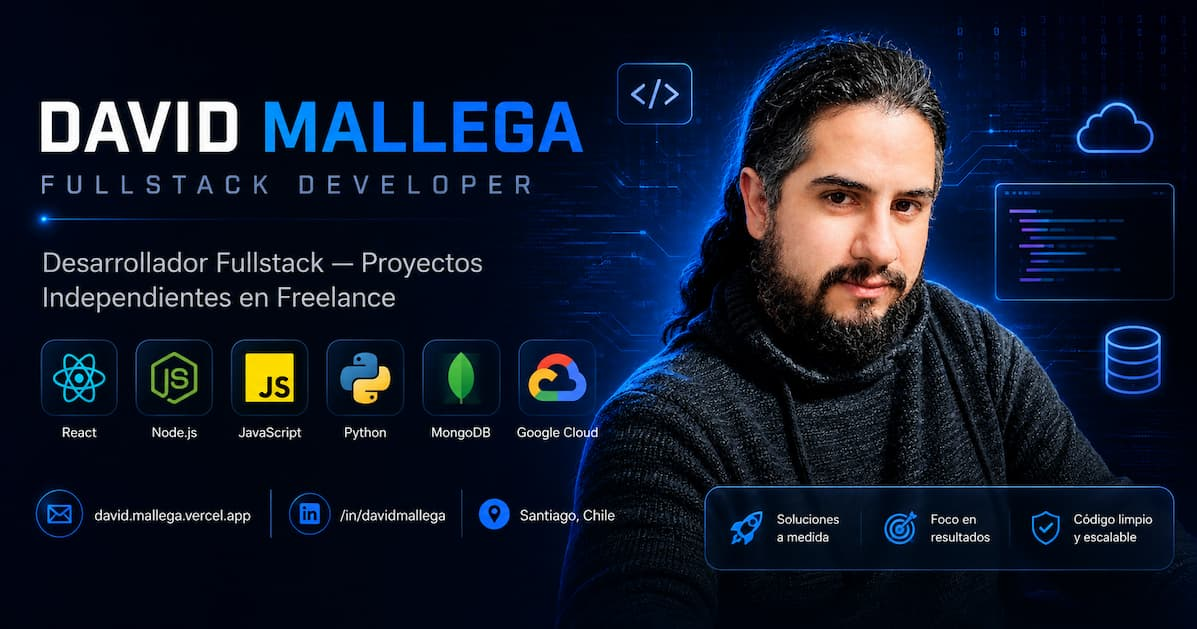
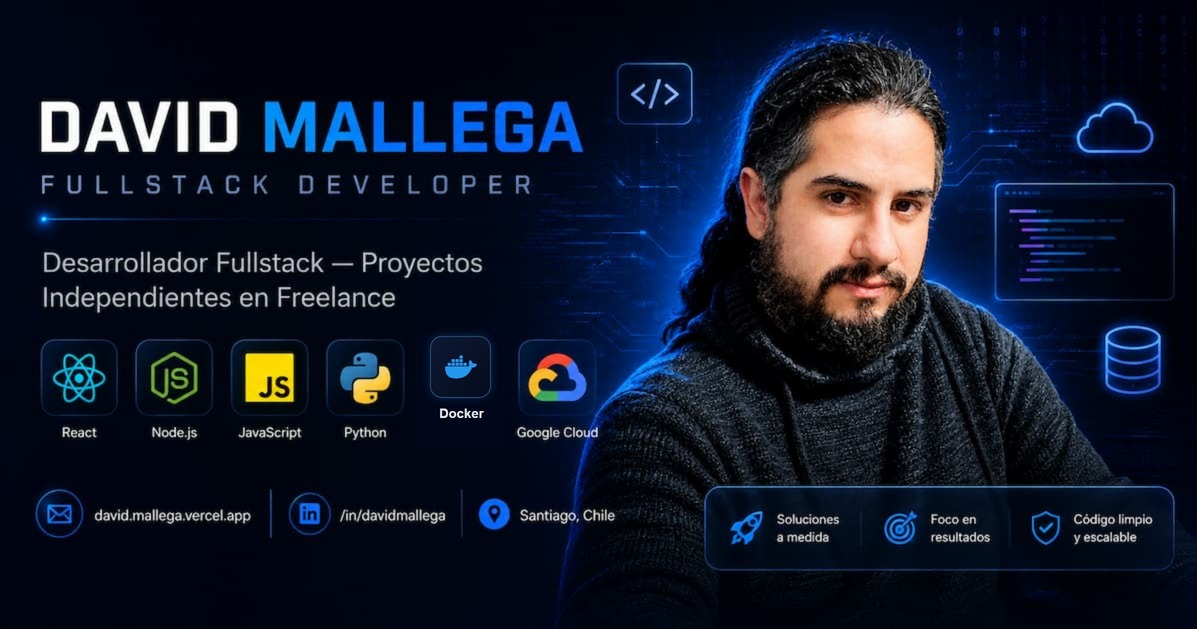
feat: SEO/discoverability pass + custom 404 + perf fix
- Add 404 page (styled, matches site aesthetic) + wildcard route
- Add vercel.json SPA rewrite so direct/refreshed route navigation works
- Add canonical tag, robots.txt, sitemap.xml, llms.txt
- Replace MongoDB icon with Docker in og-image (matches actual stack)
- Compress avatar.jpeg: 2.89MB -> 47KB (was serving 1254x1254 for a
  192px circle), no visible quality loss at display size

diff --git a/src/components/NotFound.jsx b/src/components/NotFound.jsx
@@ -1,0 +1,43 @@
+import { useLocation, useNavigate } from 'react-router-dom'
+import { useLang } from '../context/LanguageContext'
+
+export default function NotFound() {
+  const { pathname } = useLocation()
+  const navigate = useNavigate()
+  const { lang } = useLang()
+
+  return (
+    <section className="min-h-[70vh] flex items-center justify-center px-8 py-24">
+      <div className="max-w-xl w-full">
+        <p className="font-mono text-[11px] text-[#ff6b6b]/70 mb-2">
+          {lang === 'en' ? 'Uncaught RouteError' : 'Uncaught RouteError'}
+        </p>
+
+        <h1 className="font-sans text-6xl lg:text-7xl font-semibold tracking-tight text-white leading-none mb-4">
+          404
+        </h1>
+
+        <p className="font-mono text-[13px] text-white/50 mb-6">
+          {lang === 'en'
+            ? <>Cannot GET <span className="text-[#e8d88a]">'{pathname}'</span> — this route doesn't exist.</>
+            : <>No se pudo resolver <span className="text-[#e8d88a]">'{pathname}'</span> — esta ruta no existe.</>}
+        </p>
+
+        <div className="rounded-lg border border-white/[0.08] bg-white/[0.03] p-4 mb-8 overflow-x-auto">
+          <p className="font-mono text-[11px] text-white/30 leading-relaxed whitespace-pre">
+{`  at Router.resolve (react-router-dom.js:1:1)
+  at <Routes /> (App.jsx:64:9)
+  at <BrowserRouter /> (App.jsx:82:5)`}
+          </p>
+        </div>
+
+        <button
+          onClick={() => navigate('/')}
+          className="font-mono text-[13px] text-[#4ec9b0] hover:opacity-70 transition-opacity"
+        >
+          {lang === 'en' ? '← back to the portfolio' : '← volver al portfolio'}
+        </button>
+      </div>
+    </section>
+  )
+}

diff --git a/src/App.jsx b/src/App.jsx
@@ -12,6 +12,7 @@ import Certificates from './components/Certificates'
 import SDLCPage from './components/SDLCPage'
 import SkillsTimeline from './components/SkillsTimeline'
 import About from './components/About'
+import NotFound from './components/NotFound'
 import ParticlesBackground from './components/ParticlesBackground'
 import StatusBar from './components/StatusBar'
 import { projects } from './data/projects'
@@ -67,6 +68,7 @@ function AppInner() {
           <Route path="/timeline" element={<SkillsTimeline />} />
           <Route path="/sdlc" element={<SDLCPage />} />
           <Route path="/about" element={<About />} />
+          <Route path="*" element={<NotFound />} />
         </Routes>
       </div>
       <StatusBar totalErrors={projects.length} doneCount={compiledIds.size} />

diff --git a/index.html b/index.html
@@ -4,6 +4,7 @@
     <meta charset="UTF-8" />
     <link rel="icon" type="image/svg+xml" href="/favicon.svg" />
     <meta name="viewport" content="width=device-width, initial-scale=1.0" />
+    <link rel="canonical" href="https://davidmallega.vercel.app/" />
     <meta name="description" content="Portfolio de David Mallega — Fullstack Developer de Santiago, Chile. React, Node.js, GCP, Firebase, ciberseguridad." />
     <meta property="og:title" content="David Mallega — Fullstack Developer" />
     <meta property="og:description" content="Desarrollador fullstack con base real en gestión de negocios. React, Node.js, GCP, Firebase y ciberseguridad." />
